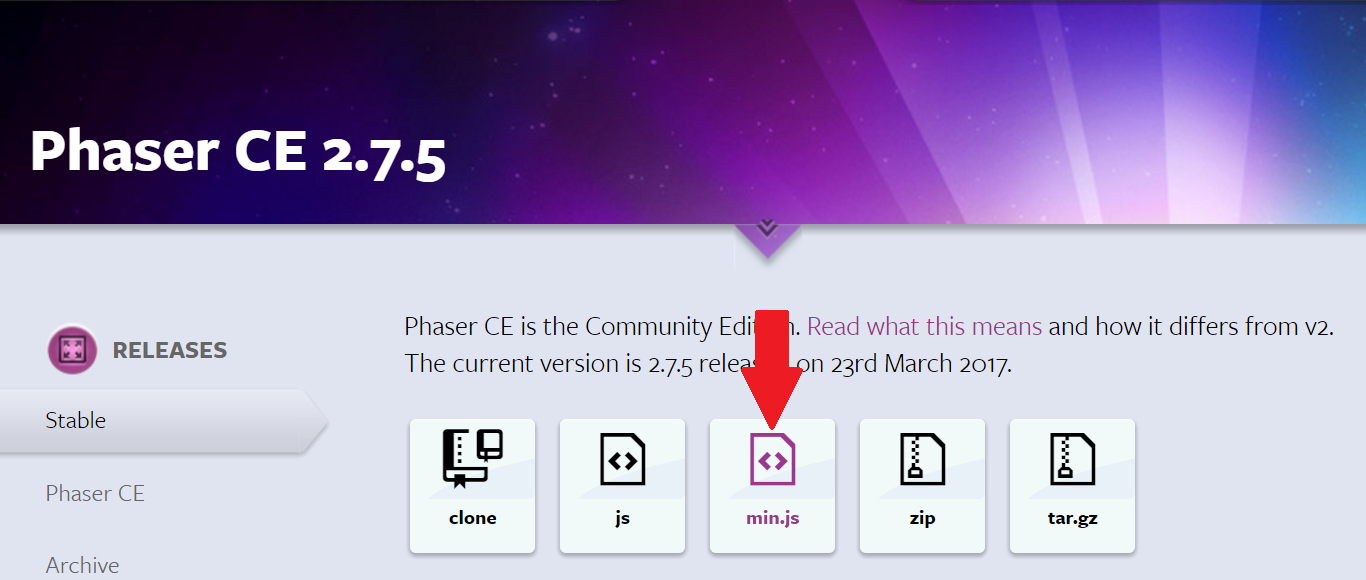
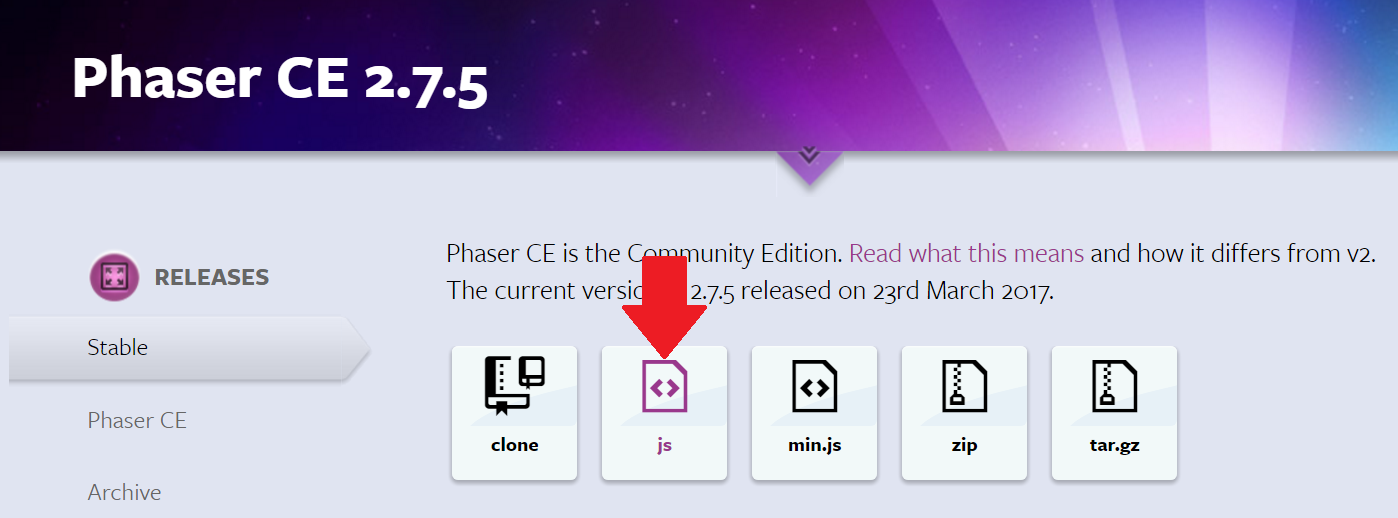
small changes to code regarding
downloading the correct Phaser.js file

diff --git a/LanguageGuide_2.0/Pages/javascript/js_helloworld.html b/LanguageGuide_2.0/Pages/javascript/js_helloworld.html
@@ -37,6 +37,8 @@
 			<li class="dropdown">
 				<a href="javascript:void(0)" class="dropbtn">JavaScript tutorial</a>
 				<div class="dropdown-content">
+					<!--<a href="../javascript/creatingCanvas.html">1. Creating Canvas</a>-->
+					<!--<a href="../javascript/creatingCanvas.html">2. Adding a Sprite</a>-->
 					<a href="../javascript/js_helloworld.html">1. JavaScript Hello World</a>
 				</div>
 			</li>
@@ -62,10 +64,10 @@
 			<p>But how do you do this in JavaScript?</p>
 		</div>
 		<div class="js">
-			<h3>Hello World with Phaser</h3>
+			<h3>Hello World using Phaser</h3>
 			<p>1. Create a folder called HelloWorld on your desktop.</p>
 			<p>2. Inside the HelloWorld folder create another folder called js.</p>
-			<p>3. Download phaser.min.js file from <a href="https://phaser.io/download/stable">phaser.io</a>.</p>
+			<p>3. Download phaser.js file from <a href="https://phaser.io/download/stable">phaser.io</a>.</p>
 			<p>4. Cut and paste the file into the js folder.</p>
 			<p>5. Open Visual Studio Code and go to File - Open Folder and select the HelloWorld folder you set up in step 1.</p>
 			<p>6. Click on the new file icon in the Explorer.</p>

diff --git a/LanguageGuide_2.0/Pages/javascript/creatingCanvas.html b/LanguageGuide_2.0/Pages/javascript/creatingCanvas.html
@@ -66,8 +66,8 @@
 		<div class="js">
 			<h3>Creating a game stage using Phaser</h3>
 			<p>1. Create a folder called CreatingCanvas on your desktop.</p>
-			<p>2. Inside the HelloWorld folder create another folder called js.</p>
-			<p>3. Download phaser.min.js file from <a href="https://phaser.io/download/stable">phaser.io</a>.</p>
+			<p>2. Inside the CreatingCanvas folder create another folder called js.</p>
+			<p>3. Download phaser.js file from <a href="https://phaser.io/download/stable">phaser.io</a>.</p>
 			<p>4. Cut and paste the file into the js folder.</p>
 			<p>5. Open Visual Studio Code and go to File - Open Folder and select the CreatingCanvas folder you set up in step 1.</p>
 			<p>6. Click on the new file icon in the Explorer.</p>
@@ -108,8 +108,6 @@ function create() {
 				<p>The browser should display the text "Hello World!" like below</p>
 		   
 				<img src="../../Images/HelloWorldPhaser.png" alt="HW_Phaser"><br>
-				
-				<br><p> Well done! You have just created your first game stage!</p>
 		
 		</div>
 			

diff --git a/LanguageGuide_2.0/Pages/tools/phaser.html b/LanguageGuide_2.0/Pages/tools/phaser.html
@@ -63,7 +63,7 @@
 		<div id="PhaserTip1"> 
 			<p><strong>1.</strong> Create a folder for your project.</p>
 			<p><strong>2.</strong> Inside the folder create another folder called js.</p>
-			<p><strong>3.</strong> Download phaser.min.js file from <a href="https://phaser.io/download/stable">phaser.io</a>.</p>
+			<p><strong>3.</strong> Download phaser.js file from <a href="https://phaser.io/download/stable">phaser.io</a>.</p>
 			<img src="../../Images/PhaserFile.png" alt="PhaserFile">			
 			<p><strong>4.</strong> Cut and paste the file into the js folder.</p>
 			<p><strong>5.</strong> Make sure you have installed <a href="https://code.visualstudio.com/#alt-downloads">Visual Studio Code</a>.</p>
